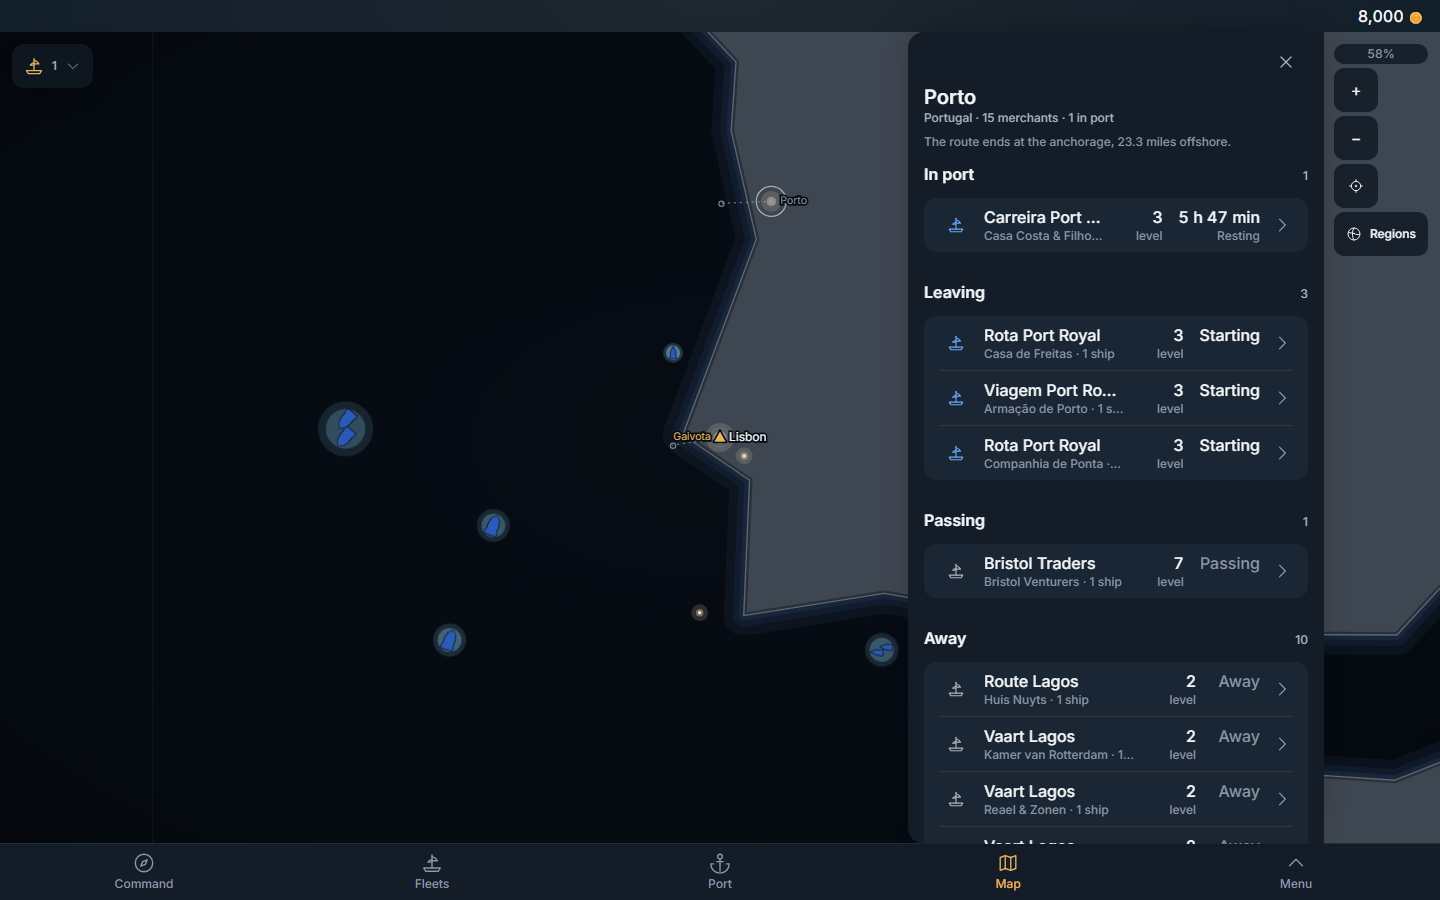
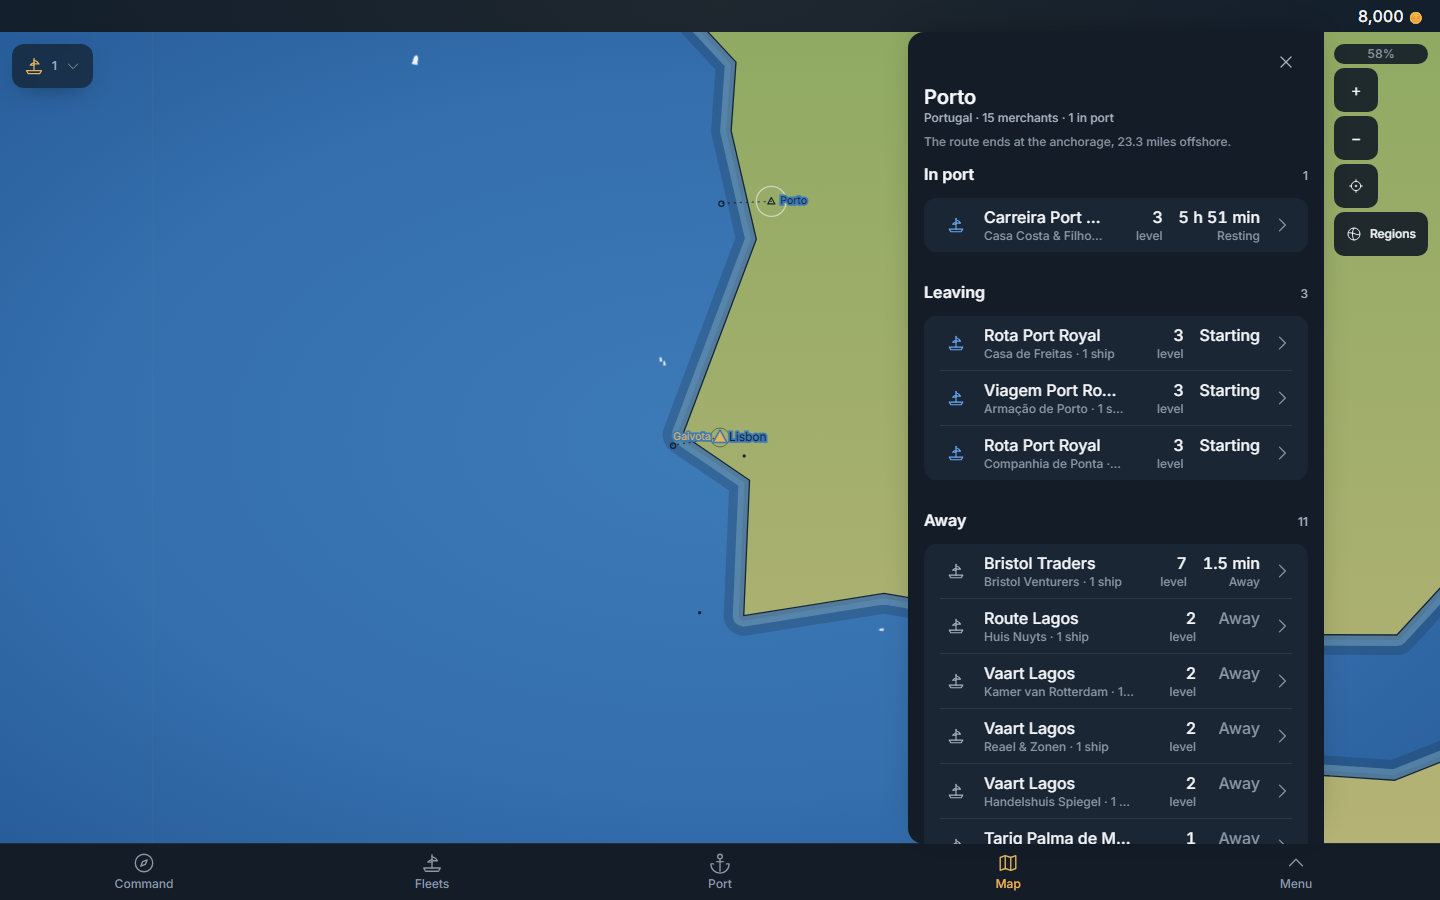
City tray: shots re-taken on the PR #108 chart; the merged-tree gate
map.merchants + port.merchants + map.wrap against vite preview :4193 on
the merge of main (11dc44a): 24 passed, 0 failed, 0 skipped. The four
tray shots are re-taken on that chart (daylight sea, halved ships).

diff --git a/docs/DEV_LOG.md b/docs/DEV_LOG.md
@@ -60,9 +60,18 @@ Owner, on the live game: *"i press a city and i see no ship info. Why did this r
   own tie rule; the helper now re-aims three times and treats a taken tap as "not this city, this
   second" — then the three city tests **3 passed, 0 failed, 0 skipped** (3.6 min). A run before
   that lost its preview server mid-way (`ERR_CONNECTION_REFUSED`, 7 skipped) and counts for
-  nothing; it is why `tests/` treats a skip as a failure on CI.
-- Shots, looked at: `docs/npc-traders/city-tray-half-390.png`, `city-tray-at-sea-390.png`,
-  `city-tray-half-1440.png`, `city-tray-merchant-from-list-390.png`.
+  nothing; it is why `tests/` treats a skip as a failure on CI. After the merge of PR #108 (ships
+  at every zoom, the continuous sheet, the Sun, ships halved — a new hit test near the names):
+  `map.merchants` + `port.merchants` + `map.wrap` on the merged build — **24 passed, 0 failed,
+  0 skipped** (41.6 min; the merchants-on fixture rebuilt inside it, its kept copy having aged
+  past 90 minutes).
+- Shots, looked at, on the PR #108 chart (daylight, halved ships): `docs/npc-traders/
+  city-tray-half-390.png` (Porto · `15 merchants · 1 in port`, `5 h 54 min` Resting, Leaving 3),
+  `city-tray-at-sea-390.png`, `city-tray-half-1440.png` (Porto's side tray: In port 1, Leaving 3,
+  Away 11), `city-tray-merchant-from-list-390.png`. One true thing the shots show that this slice
+  did not touch: a merchant AWAY from the tapped city whose served `next_lap_at` is her rest at her
+  OWN home prints that countdown over `Away` (`Bristol Traders · 1.5 min · Away`) — `MerchantRow`
+  prints a served instant wherever it has one, on PORT as on the map; the figure is the server's.
 
 ## 2026-10-14 — ships at every zoom, the continuous sheet, the Sun; ships halved — `osn-map-wrap-sun` (client only)
 
